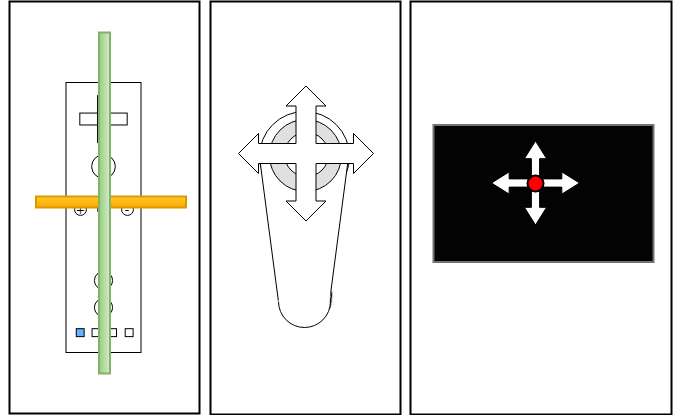
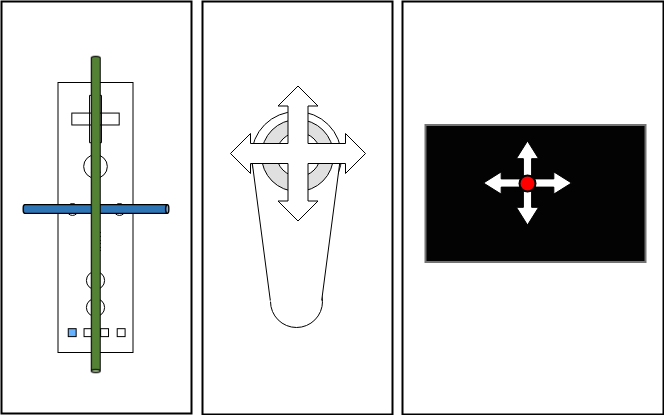
:+1: 加速度軸の＋方向を変更するボタンの実装

diff --git a/wiizard/Profiler.Designer.cs b/wiizard/Profiler.Designer.cs
@@ -56,6 +56,9 @@
             this.picBox_wii = new System.Windows.Forms.PictureBox();
             this.tabPage_AccIR = new System.Windows.Forms.TabPage();
             this.panel_config_accIr = new System.Windows.Forms.Panel();
+            this.picBox_rotateDirX = new System.Windows.Forms.PictureBox();
+            this.label2 = new System.Windows.Forms.Label();
+            this.label1 = new System.Windows.Forms.Label();
             this.picBox_wii_accIr = new System.Windows.Forms.PictureBox();
             this.tabPage_advconfig = new System.Windows.Forms.TabPage();
             this.btnDeleteAction = new System.Windows.Forms.Button();
@@ -70,6 +73,7 @@
             this.combo_models = new System.Windows.Forms.ComboBox();
             this.label17 = new System.Windows.Forms.Label();
             this.label18 = new System.Windows.Forms.Label();
+            this.picBox_rotateDirY = new System.Windows.Forms.PictureBox();
             this.menuStrip.SuspendLayout();
             this.statusStrip.SuspendLayout();
             this.panel_profile.SuspendLayout();
@@ -83,10 +87,12 @@
             ((System.ComponentModel.ISupportInitialize)(this.picBox_wii)).BeginInit();
             this.tabPage_AccIR.SuspendLayout();
             this.panel_config_accIr.SuspendLayout();
+            ((System.ComponentModel.ISupportInitialize)(this.picBox_rotateDirX)).BeginInit();
             ((System.ComponentModel.ISupportInitialize)(this.picBox_wii_accIr)).BeginInit();
             this.tabPage_advconfig.SuspendLayout();
             ((System.ComponentModel.ISupportInitialize)(this.num_delay)).BeginInit();
             ((System.ComponentModel.ISupportInitialize)(this.num_value)).BeginInit();
+            ((System.ComponentModel.ISupportInitialize)(this.picBox_rotateDirY)).BeginInit();
             this.SuspendLayout();
             // 
             // menuStrip
@@ -377,6 +383,10 @@
             // 
             // panel_config_accIr
             // 
+            this.panel_config_accIr.Controls.Add(this.picBox_rotateDirY);
+            this.panel_config_accIr.Controls.Add(this.picBox_rotateDirX);
+            this.panel_config_accIr.Controls.Add(this.label2);
+            this.panel_config_accIr.Controls.Add(this.label1);
             this.panel_config_accIr.Controls.Add(this.picBox_wii_accIr);
             this.panel_config_accIr.Dock = System.Windows.Forms.DockStyle.Fill;
             this.panel_config_accIr.Location = new System.Drawing.Point(3, 3);
@@ -385,6 +395,35 @@
             this.panel_config_accIr.Size = new System.Drawing.Size(488, 414);
             this.panel_config_accIr.TabIndex = 3;
             this.panel_config_accIr.MouseClick += new System.Windows.Forms.MouseEventHandler(this.panel_config_accIr_MouseClick);
+            // 
+            // picBox_rotateDirX
+            // 
+            this.picBox_rotateDirX.BackColor = System.Drawing.Color.Transparent;
+            this.picBox_rotateDirX.Image = global::wiizard.Properties.Resources.figure_wiimote_dir;
+            this.picBox_rotateDirX.InitialImage = global::wiizard.Properties.Resources.figure_wiimote_dir;
+            this.picBox_rotateDirX.Location = new System.Drawing.Point(47, 277);
+            this.picBox_rotateDirX.Name = "picBox_rotateDirX";
+            this.picBox_rotateDirX.Size = new System.Drawing.Size(57, 50);
+            this.picBox_rotateDirX.TabIndex = 4;
+            this.picBox_rotateDirX.TabStop = false;
+            // 
+            // label2
+            // 
+            this.label2.AutoSize = true;
+            this.label2.Location = new System.Drawing.Point(130, 203);
+            this.label2.Name = "label2";
+            this.label2.Size = new System.Drawing.Size(12, 12);
+            this.label2.TabIndex = 3;
+            this.label2.Text = "Y";
+            // 
+            // label1
+            // 
+            this.label1.AutoSize = true;
+            this.label1.Location = new System.Drawing.Point(72, 330);
+            this.label1.Name = "label1";
+            this.label1.Size = new System.Drawing.Size(12, 12);
+            this.label1.TabIndex = 2;
+            this.label1.Text = "X";
             // 
             // picBox_wii_accIr
             // 
@@ -545,6 +584,17 @@
             this.label18.TabIndex = 7;
             this.label18.Text = "遅延(ms):";
             // 
+            // picBox_rotateDirY
+            // 
+            this.picBox_rotateDirY.BackColor = System.Drawing.Color.Transparent;
+            this.picBox_rotateDirY.Image = global::wiizard.Properties.Resources.figure_wiimote_dir;
+            this.picBox_rotateDirY.InitialImage = global::wiizard.Properties.Resources.figure_wiimote_dir;
+            this.picBox_rotateDirY.Location = new System.Drawing.Point(88, 171);
+            this.picBox_rotateDirY.Name = "picBox_rotateDirY";
+            this.picBox_rotateDirY.Size = new System.Drawing.Size(37, 50);
+            this.picBox_rotateDirY.TabIndex = 5;
+            this.picBox_rotateDirY.TabStop = false;
+            // 
             // Profiler
             // 
             this.AutoScaleDimensions = new System.Drawing.SizeF(6F, 12F);
@@ -575,11 +625,14 @@
             ((System.ComponentModel.ISupportInitialize)(this.picBox_wii)).EndInit();
             this.tabPage_AccIR.ResumeLayout(false);
             this.panel_config_accIr.ResumeLayout(false);
+            this.panel_config_accIr.PerformLayout();
+            ((System.ComponentModel.ISupportInitialize)(this.picBox_rotateDirX)).EndInit();
             ((System.ComponentModel.ISupportInitialize)(this.picBox_wii_accIr)).EndInit();
             this.tabPage_advconfig.ResumeLayout(false);
             this.tabPage_advconfig.PerformLayout();
             ((System.ComponentModel.ISupportInitialize)(this.num_delay)).EndInit();
             ((System.ComponentModel.ISupportInitialize)(this.num_value)).EndInit();
+            ((System.ComponentModel.ISupportInitialize)(this.picBox_rotateDirY)).EndInit();
             this.ResumeLayout(false);
             this.PerformLayout();
 
@@ -629,6 +682,10 @@
         private System.Windows.Forms.Button btnSave;
         private System.Windows.Forms.Panel panel_config_accIr;
         private System.Windows.Forms.PictureBox picBox_wii_accIr;
+        private System.Windows.Forms.Label label2;
+        private System.Windows.Forms.Label label1;
+        private System.Windows.Forms.PictureBox picBox_rotateDirX;
+        private System.Windows.Forms.PictureBox picBox_rotateDirY;
     }
 }
 

diff --git a/wiizard/Profiler.cs b/wiizard/Profiler.cs
@@ -28,7 +28,7 @@ namespace wiizard
             m_dic_buttonRect = new Dictionary<WiimoteModel, Rectangle>();
             m_dic_accIrRect = new Dictionary<WiimoteModel, Rectangle>();
             ReadRectFromCsv(csv: Properties.Resources.modelRect);
-            
+
             // Behavior
             m_bMgr = new BehaviorManager();
             m_bMgr.Add(new StandardBehavior());
@@ -81,6 +81,15 @@ namespace wiizard
             combo_models.Items.AddRange(Enum.GetNames(typeof(WiimoteModel)).ToArray());
             combo_models.SelectedIndex = 0;
 
+            // 軸方向ボタン: 透明化
+            picBox_rotateDirX.Parent = picBox_wii_accIr;
+            picBox_rotateDirY.Parent = picBox_wii_accIr;
+
+            // 軸方向ボタン: X軸画像反転
+            var img = (Bitmap)picBox_rotateDirX.Image;
+            img.RotateFlip(RotateFlipType.Rotate90FlipNone);
+            picBox_rotateDirX.Image = img;
+
         }
 
         /// <summary>
@@ -113,6 +122,14 @@ namespace wiizard
         private Point? m_mousePos = null;
 
         private bool m_profileChanged = false;
+
+        private Point[][] m_rotateDirImageLocation = new Point[][]
+        {
+            new [] { new Point(47, 277), new Point(39, 277) }, /* X */
+            new [] { new Point(88, 171), new Point(88, 176) }  /* Y */
+        };
+
+        private int[] m_rotateDirImageState = new[] { 0, 0 }; /* X, Y */
 
         /// <summary>
         /// プロファイルを読み込み、UIを更新します
@@ -202,7 +219,8 @@ namespace wiizard
                 }
 
                 selectedModel = m_dic_buttonRect.First(x => x.Value.Contains(m_mousePos.Value)).Key;
-            } else
+            }
+            else
             {
                 // 「詳細」タブの時
                 selectedModel = (WiimoteModel)Enum.Parse(typeof(WiimoteModel), combo_models.SelectedItem.ToString());
@@ -269,7 +287,7 @@ namespace wiizard
             var pos = e.Location;
             pos.Offset(-10, -10);
             pos = GetImagePos(picBox_wii, pos);
-            labStat.Text = $"Button: {pos.X},{pos.Y}";
+            // labStat.Text = $"Button: {pos.X},{pos.Y}";
 
             var disabled = m_bMgr.GetBehavior(m_selectedProfile.Behavior).GetDisabledItem();
             if (m_dic_buttonRect.Any(x => !disabled.Contains(x.Key) && x.Value.Contains(pos)))
@@ -277,6 +295,25 @@ namespace wiizard
                 m_mousePos = pos;
                 picBox_wii_Paint();
             }
+
+            CheckRotateDirButtons(pos);
+        }
+
+
+        private void panel_config_accIr_MouseClick(object sender, MouseEventArgs e)
+        {
+            var pos = e.Location;
+            CheckRotateDirButtons(pos);
+            pos.Offset(-10, -10);
+            pos = GetImagePos(picBox_wii_accIr, pos);
+            // labStat.Text = $"AccIR: {pos.X},{pos.Y}";
+
+            //var disabled = m_bMgr.GetBehavior(m_selectedProfile.Behavior).GetDisabledItem();
+            //if (m_dic_buttonRect.Any(x => !disabled.Contains(x.Key) && x.Value.Contains(pos)))
+            //{
+            //    m_mousePos = pos;
+            //    picBox_wii_Paint();
+            //}
         }
 
         private void MenuItem_Readme_Click(object sender, EventArgs e)
@@ -412,21 +449,13 @@ namespace wiizard
             check_inc.Checked = selected.Incremental.GetValueOrDefault(defaultValue: false);
         }
 
-        private void panel_config_accIr_MouseClick(object sender, MouseEventArgs e)
-        {
-            var pos = e.Location;
-            pos.Offset(-10, -10);
-            pos = GetImagePos(picBox_wii_accIr, pos);
-            labStat.Text = $"AccIR: {pos.X},{pos.Y}";
-        }
-
         private Point GetImagePos(PictureBox picBox, Point mPos)
         {
             int W = picBox.Image.Width;
             int H = picBox.Image.Height;
 
             var imgScale = Math.Min((double)picBox.Width / W, (double)picBox.Height / H);
-            
+
             var imgX = (picBox.Width - (W * imgScale)) / 2.0;
             var imgY = (picBox.Height - (H * imgScale)) / 2.0;
 
@@ -435,6 +464,39 @@ namespace wiizard
             ret.Y = (int)((mPos.Y - imgY) / imgScale);
 
             return ret;
+        }
+
+        private void TransformRotateDirImage(PictureBox picBox)
+        {
+            var target = picBox == picBox_rotateDirX ? /* X */ 0 : /* Y */ 1;
+
+            // Flip
+            var img = (Bitmap)picBox.Image;
+            RotateFlipType type = target == 0 ? RotateFlipType.RotateNoneFlipX : RotateFlipType.RotateNoneFlipY;
+            img.RotateFlip(type);
+
+            // Set Location
+            var state = m_rotateDirImageState[target] == 0 ? 1 : 0; // Flip
+            m_rotateDirImageState[target] = state;
+            picBox.Image = img;
+            picBox.Location = m_rotateDirImageLocation[target][state];
+
+            picBox.Refresh();
+        }
+
+        private void CheckRotateDirButtons(Point mPos)
+        {
+            var rect_rotateDirX = new Rectangle(picBox_rotateDirX.Location, picBox_rotateDirX.Size);
+            var rect_rotateDirY = new Rectangle(picBox_rotateDirY.Location, picBox_rotateDirY.Size);
+
+            if (rect_rotateDirX.Contains(mPos))
+            {
+                TransformRotateDirImage(picBox_rotateDirX);
+            }
+            else if (rect_rotateDirY.Contains(mPos))
+            {
+                TransformRotateDirImage(picBox_rotateDirY);
+            }
         }
 
     }

diff --git a/wiizard/Properties/Resources.Designer.cs b/wiizard/Properties/Resources.Designer.cs
@@ -81,6 +81,16 @@ namespace wiizard.Properties {
         }
         
         /// <summary>
+        ///   Looks up a localized resource of type System.Drawing.Bitmap.
+        /// </summary>
+        internal static System.Drawing.Bitmap figure_wiimote_dir {
+            get {
+                object obj = ResourceManager.GetObject("figure_wiimote_dir", resourceCulture);
+                return ((System.Drawing.Bitmap)(obj));
+            }
+        }
+        
+        /// <summary>
         ///   Looks up a localized string similar to A,0,64,180,66,66
         ///B,0,271,83,80,116
         ///Plus,0,19,303,36,36
